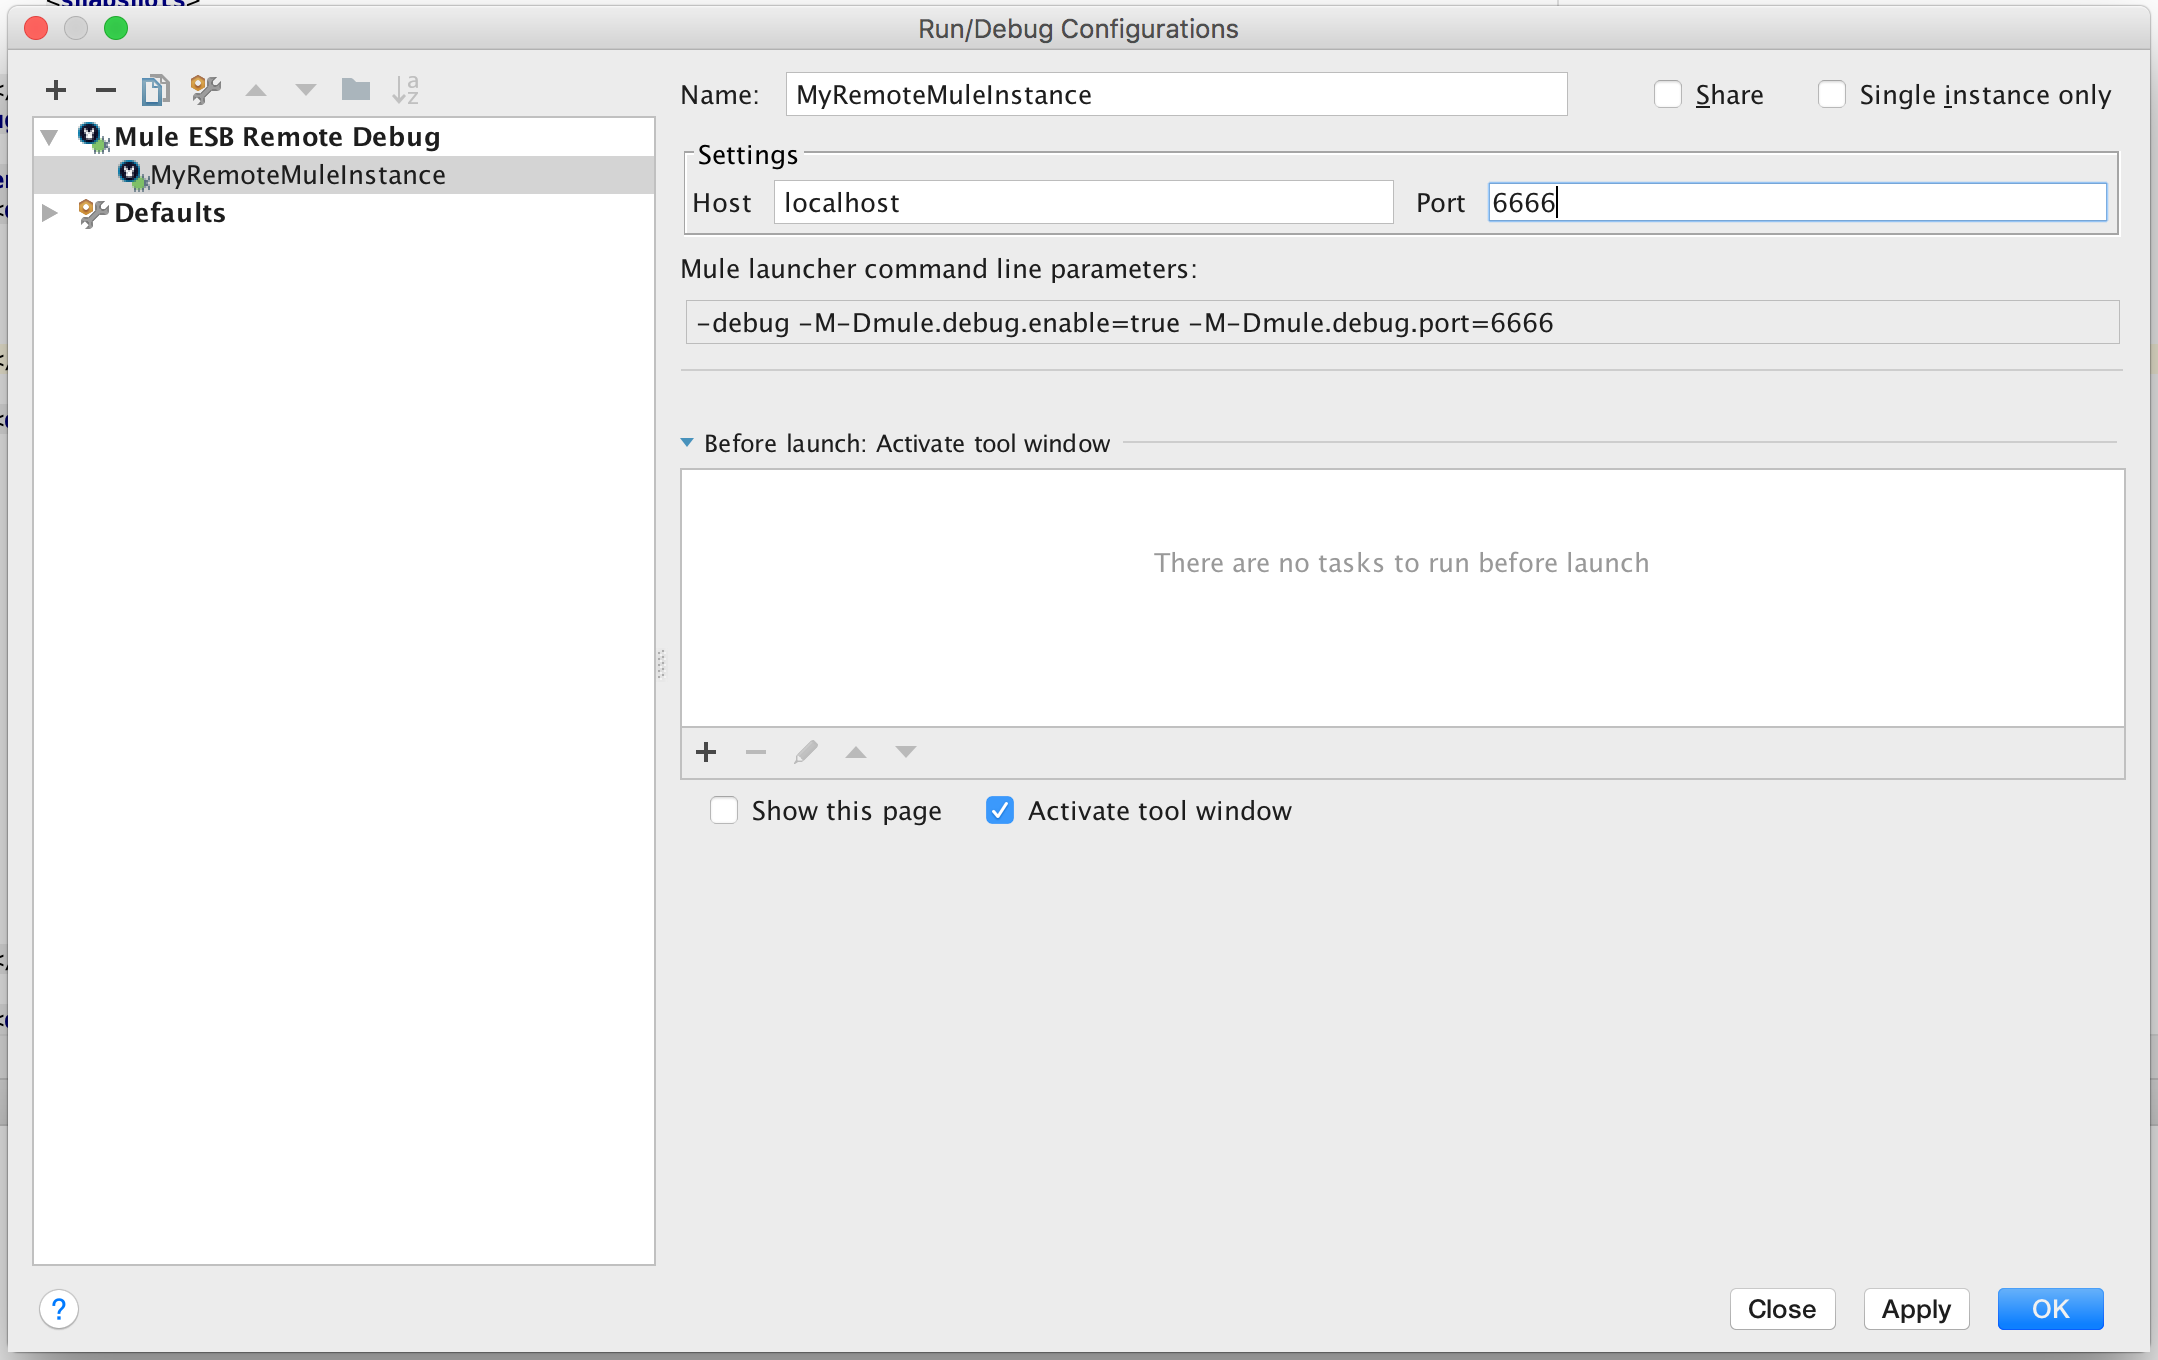
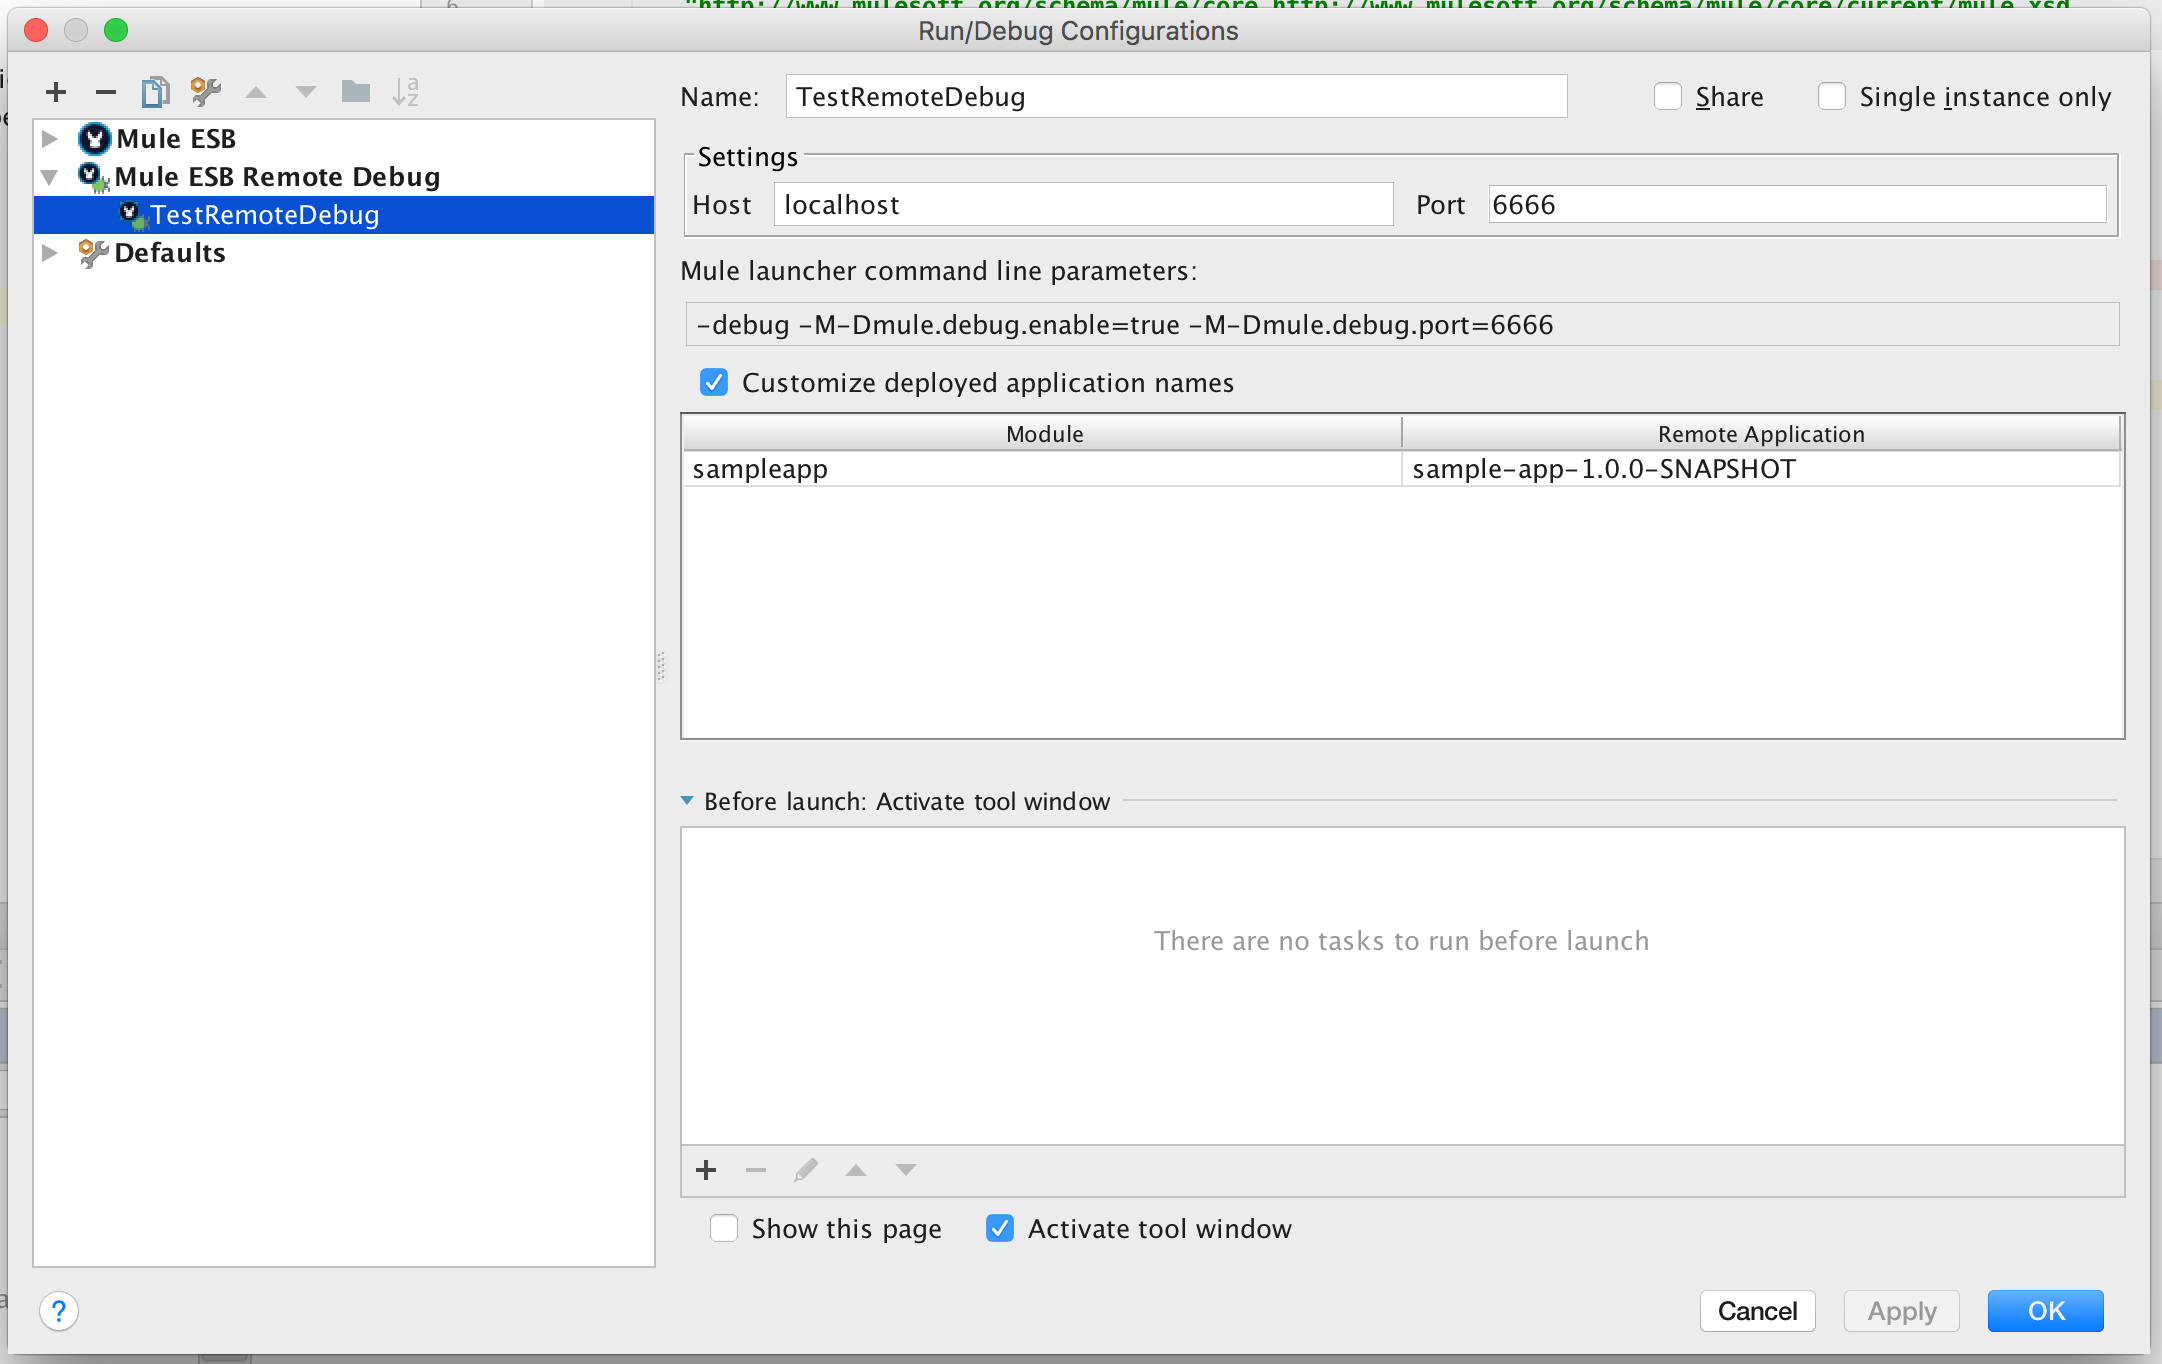
Documentation updates

diff --git a/mule-esb-plugin/docs/Readme.md b/mule-esb-plugin/docs/Readme.md
@@ -101,6 +101,8 @@ To debug a remote Mule instance, select **Run | Edit configurations...**, or sel
 
 Set the name for the new configuration and change the host and port where the Mule container is running. Right below the host and port there's a list of additional command line parameters that must be passed to the Mule instance. See the **[Starting Mule Server In Debug Mode](https://docs.mulesoft.com/anypoint-studio/v/6/studio-visual-debugger#debugging-remotely)** section of the MuleSoft Anypoint Platform documentation for more details.
 
+If the deployed artifact name does not match the project or module name, make sure the **Customize deployed applications names** checkbox is selected, and then set the deployed artifact name in the table below.
+
 ## Encrypting and decrypting properties
 
 To encrypt a property, open the `.properties` file and either a) right-click on the property name, or b) open the **Structure** view and right-click on the property name.
